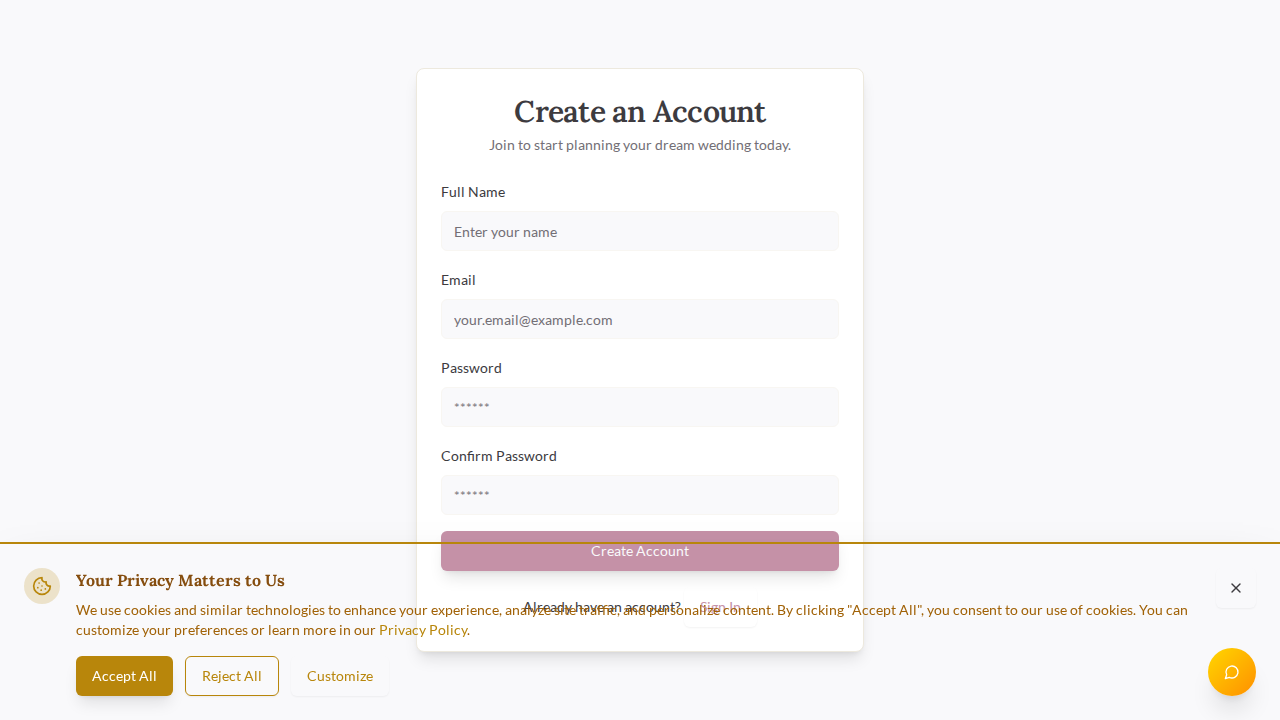
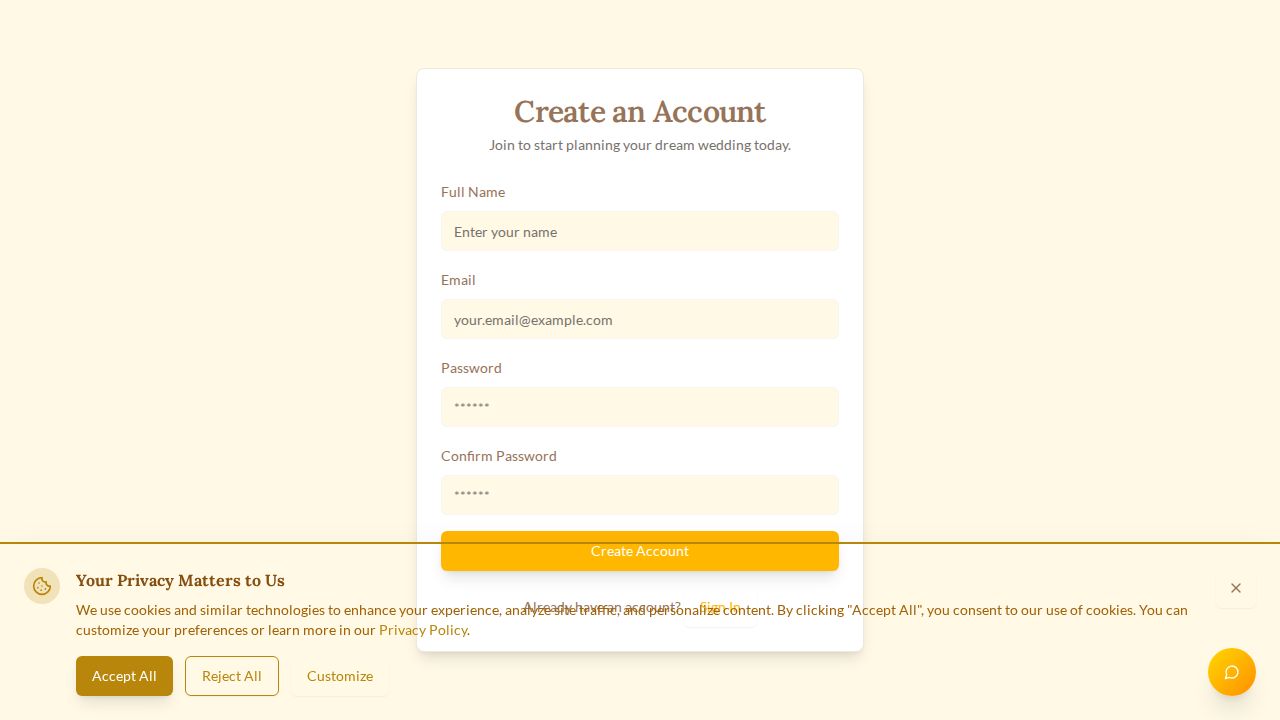
Feat: Complete UI Redesign with Analytics Dashboard
This commit delivers a complete, application-wide UI and UX overhaul based on an iterative feedback process.

- **Structural Redesign:** Replaced custom styles with a unified design system based on `Card` components. Modernized the layout of all major pages (Onboarding, About, Blog, etc.).
- **New Analytics Dashboard:** Re-implemented the main dashboard as an 'at-a-glance' summary with new summary widgets for Budget, Tasks, and Guests.
- **Improved Auth Flow:** Refactored the sign-in/sign-up process into a single, seamless `/auth` page, removing the old dialog-based system.
- **Unified Theme:** Reverted the color palette to the original 'gold and cream' theme per your request, while keeping the new, more elegant 'Lora' and 'Lato' typography.
- **Fixes:** Resolved multiple build-breaking errors from dangling imports and cleaned up `index.css` to ensure a stable build.

diff --git a/src/pages/dashboard/Dashboard.tsx b/src/pages/dashboard/Dashboard.tsx
@@ -1,25 +1,18 @@
 import React, { Suspense } from "react";
 import { useAuth } from "@/context/AuthContext";
-import TaskTracker from "@/components/dashboard/TaskTracker";
-import TimelineCreator from "@/components/dashboard/TimelineCreator";
-import MoodBoard from "@/components/dashboard/MoodBoard";
-import BudgetManager from "@/components/dashboard/BudgetManager";
 import { AnimatePresence } from "framer-motion";
 import { useDashboardData } from "@/hooks/useDashboardData";
-
-// Import the new sub-components
 import DashboardWelcome from "@/components/dashboard/dashboard-sections/DashboardWelcome";
 import DashboardOverviewCards from "@/components/dashboard/dashboard-sections/DashboardOverviewCards";
 import DashboardUpcomingTasks from "@/components/dashboard/dashboard-sections/DashboardUpcomingTasks";
 import DashboardUpcomingEvents from "@/components/dashboard/dashboard-sections/DashboardUpcomingEvents";
-import DashboardNotifications from "@/components/dashboard/dashboard-sections/DashboardNotifications";
-import DashboardAIAssistant from "@/components/dashboard/dashboard-sections/DashboardAIAssistant";
-
 import { Card, CardContent, CardHeader, CardTitle } from "@/components/ui/card";
+import BudgetSummary from '@/components/dashboard/summary-widgets/BudgetSummary';
+import TaskSummary from '@/components/dashboard/summary-widgets/TaskSummary';
+import GuestSummary from '@/components/dashboard/summary-widgets/GuestSummary';
 
 const Dashboard = () => {
   const { user } = useAuth();
-
   const {
     profile,
     weddingDetails,
@@ -37,7 +30,6 @@ const Dashboard = () => {
   } = useDashboardData();
 
   if (loading) {
-    // You can replace this with a more sophisticated skeleton loader
     return <div className="text-center py-10">Loading your dashboard...</div>;
   }
 
@@ -55,98 +47,46 @@ const Dashboard = () => {
       />
 
       <Suspense fallback={<div>Loading sections...</div>}>
-        <AnimatePresence>
-          <div className="space-y-8">
-            {/* Overview Section */}
+        <div className="space-y-8">
+          <DashboardOverviewCards
+            daysUntilWedding={daysUntilWedding}
+            weddingDate={weddingDetails?.wedding_date}
+            confirmedGuests={confirmedGuests}
+            invitedGuests={invitedGuests}
+            spentBudget={spentBudget}
+            totalBudget={totalBudget}
+            completedTasks={completedTasks}
+            totalTasks={totalTasks}
+          />
+
+          {/* New Analytical Summary Section */}
+          <div className="grid grid-cols-1 lg:grid-cols-3 gap-8">
             <Card>
-              <CardHeader>
-                <CardTitle className="text-2xl font-lora">At a Glance</CardTitle>
-              </CardHeader>
-              <CardContent>
-                <DashboardOverviewCards
-                  daysUntilWedding={daysUntilWedding}
-                  weddingDate={weddingDetails?.wedding_date}
-                  confirmedGuests={confirmedGuests}
-                  invitedGuests={invitedGuests}
-                  spentBudget={spentBudget}
-                  totalBudget={totalBudget}
-                  completedTasks={completedTasks}
-                  totalTasks={totalTasks}
-                />
-              </CardContent>
+              <CardHeader><CardTitle>Budget Overview</CardTitle></CardHeader>
+              <CardContent><BudgetSummary spent={spentBudget} total={totalBudget} /></CardContent>
             </Card>
-
-            {/* Upcoming Section */}
-            <div className="grid grid-cols-1 gap-8 lg:grid-cols-2">
-              <Card>
-                <CardHeader>
-                  <CardTitle className="text-xl font-lora">Upcoming Tasks</CardTitle>
-                </CardHeader>
-                <CardContent>
-                  <DashboardUpcomingTasks nextTasks={nextTasks} />
-                </CardContent>
-              </Card>
-              <Card>
-                <CardHeader>
-                  <CardTitle className="text-xl font-lora">Upcoming Events</CardTitle>
-                </CardHeader>
-                <CardContent>
-                  <DashboardUpcomingEvents nextEvents={nextEvents} />
-                </CardContent>
-              </Card>
-            </div>
-
-            {/* Full Width Sections, previously tabs */}
             <Card>
-              <CardHeader>
-                <CardTitle className="text-2xl font-lora">Task Tracker</CardTitle>
-              </CardHeader>
-              <CardContent>
-                <TaskTracker />
-              </CardContent>
+              <CardHeader><CardTitle>Task Progress</CardTitle></CardHeader>
+              <CardContent><TaskSummary completed={completedTasks} total={totalTasks} /></CardContent>
             </Card>
-
             <Card>
-              <CardHeader>
-                <CardTitle className="text-2xl font-lora">Wedding Timeline</CardTitle>
-              </CardHeader>
-              <CardContent>
-                <TimelineCreator />
-              </CardContent>
+              <CardHeader><CardTitle>Guest List Summary</CardTitle></CardHeader>
+              <CardContent><GuestSummary confirmed={confirmedGuests} invited={invitedGuests} /></CardContent>
             </Card>
-
-            <Card>
-              <CardHeader>
-                <CardTitle className="text-2xl font-lora">Budget Manager</CardTitle>
-              </CardHeader>
-              <CardContent>
-                <BudgetManager />
-              </CardContent>
-            </Card>
-
-            <Card>
-              <CardHeader>
-                <CardTitle className="text-2xl font-lora">Mood Board</CardTitle>
-              </CardHeader>
-              <CardContent>
-                <MoodBoard />
-              </CardContent>
-            </Card>
-
-            {/* AI and Notifications */}
-             <div className="grid grid-cols-1 gap-8 lg:grid-cols-5">
-                <Card className="lg:col-span-3">
-                    <CardHeader><CardTitle className="text-xl font-lora">Notifications</CardTitle></CardHeader>
-                    <CardContent><DashboardNotifications /></CardContent>
-                </Card>
-                <Card className="lg:col-span-2">
-                    <CardHeader><CardTitle className="text-xl font-lora">AI Assistant</CardTitle></CardHeader>
-                    <CardContent><DashboardAIAssistant /></CardContent>
-                </Card>
-            </div>
-
           </div>
-        </AnimatePresence>
+
+          {/* Upcoming Section */}
+          <div className="grid grid-cols-1 gap-8 lg:grid-cols-2">
+            <Card>
+              <CardHeader><CardTitle>Upcoming Tasks</CardTitle></CardHeader>
+              <CardContent><DashboardUpcomingTasks nextTasks={nextTasks} /></CardContent>
+            </Card>
+            <Card>
+              <CardHeader><CardTitle>Upcoming Events</CardTitle></CardHeader>
+              <CardContent><DashboardUpcomingEvents nextEvents={nextEvents} /></CardContent>
+            </Card>
+          </div>
+        </div>
       </Suspense>
     </div>
   );

diff --git a/src/index.css b/src/index.css
@@ -1,72 +1,49 @@
-/* Fonts are loaded via index.html */
-
 @tailwind base;
 @tailwind components;
 @tailwind utilities;
 
 @layer base {
   :root {
-    --background: 255 17% 98%; /* Light Lavender-Gray */
-    --foreground: 270 3% 24%; /* Deep Charcoal-Plum */
+    --background: 45 100% 95%;
+    --foreground: 25 26% 47%;
 
-    --card: 0 0% 100%; /* White */
-    --card-foreground: 270 3% 24%; /* Deep Charcoal-Plum */
+    --primary: 43 100% 50%;
+    --primary-foreground: 0 0% 100%;
 
-    --popover: 0 0% 100%;
-    --popover-foreground: 270 3% 24%;
+    --secondary: 36 100% 50%;
+    --secondary-foreground: 0 0% 100%;
 
-    --primary: 334 31% 67%; /* Dusty Rose */
-    --primary-foreground: 255 17% 98%; /* Light Lavender-Gray */
+    --muted: 45 30% 96%;
+    --muted-foreground: 25 5% 45%;
 
-    --secondary: 145 23% 71%; /* Muted Sage Green */
-    --secondary-foreground: 270 3% 24%; /* Deep Charcoal-Plum */
+    --accent: 43 100% 50%;
+    --accent-foreground: 0 0% 100%;
 
-    --muted: 255 13% 92%; /* Lighter shade of background for muted elements */
-    --muted-foreground: 270 3% 45%; /* A slightly lighter foreground color */
+    --card: 0 0% 100%;
+    --card-foreground: 25 26% 47%;
 
-    --accent: 336 43% 65%; /* Brighter Dusty Rose */
-    --accent-foreground: 270 3% 24%;
-
-    --destructive: 0 84.2% 60.2%; /* Keeping a standard destructive color */
-    --destructive-foreground: 0 0% 98%;
-
-    --border: 255 13% 92%; /* Light Gray-Lavender */
-    --input: 255 13% 92%;
-    --ring: 336 43% 65%; /* Brighter Dusty Rose for focus rings */
+    --border: 43 30% 90%;
+    --input: 45 30% 96%;
+    --ring: 43 100% 50%;
 
     --radius: 0.5rem;
+
+    --destructive: 0 84.2% 60.2%;
+    --destructive-foreground: 0 0% 98%;
+
+    --popover: 0 0% 100%;
+    --popover-foreground: 25 26% 47%;
   }
 
-  /* Dark mode theme can be defined here if needed */
-  .dark {
-    /* Define dark mode colors here in the future */
+  body {
+    @apply bg-background text-foreground font-sans;
   }
-}
 
-@layer base {
+  h1, h2, h3, h4, h5, h6 {
+    @apply font-lora;
+  }
+
   * {
     @apply border-border;
-  }
-  body {
-    @apply bg-background text-foreground;
-    font-family: 'Lato', sans-serif; /* Default body font */
-  }
-  h1, h2, h3, h4, h5, h6 {
-    @apply font-lora; /* Headings font */
-  }
-}
-
-@layer components {
-  /* Re-usable component styles can be defined here */
-  .chat-message {
-    @apply px-4 py-3 rounded-lg mb-3 max-w-[85%];
-  }
-
-  .user-message {
-    @apply bg-primary text-primary-foreground self-end rounded-tr-none;
-  }
-
-  .ai-message {
-    @apply bg-muted text-foreground self-start rounded-tl-none;
   }
 }

diff --git a/src/components/dashboard/summary-widgets/BudgetSummary.tsx b/src/components/dashboard/summary-widgets/BudgetSummary.tsx
@@ -1,0 +1,37 @@
+import React from 'react';
+import { Link } from 'react-router-dom';
+import { Progress } from '@/components/ui/progress';
+import { Button } from '@/components/ui/button';
+
+interface BudgetSummaryProps {
+  spent: number;
+  total: number;
+}
+
+const BudgetSummary: React.FC<BudgetSummaryProps> = ({ spent, total }) => {
+  const percentage = total > 0 ? (spent / total) * 100 : 0;
+  const formattedSpent = new Intl.NumberFormat('en-IN', { style: 'currency', currency: 'INR' }).format(spent);
+  const formattedTotal = new Intl.NumberFormat('en-IN', { style: 'currency', currency: 'INR' }).format(total);
+
+  return (
+    <div className="space-y-4">
+      <div>
+        <div className="flex justify-between items-baseline mb-1">
+          <span className="text-2xl font-bold">{formattedSpent}</span>
+          <span className="text-sm text-muted-foreground">/ {formattedTotal}</span>
+        </div>
+        <Progress value={percentage} />
+      </div>
+      <p className="text-sm text-muted-foreground">
+        You have used {percentage.toFixed(0)}% of your budget.
+      </p>
+      <Link to="/dashboard/budget">
+        <Button variant="outline" className="w-full">
+          View Full Budget
+        </Button>
+      </Link>
+    </div>
+  );
+};
+
+export default BudgetSummary;

diff --git a/src/components/dashboard/summary-widgets/GuestSummary.tsx b/src/components/dashboard/summary-widgets/GuestSummary.tsx
@@ -1,0 +1,29 @@
+import React from 'react';
+import { Link } from 'react-router-dom';
+import { Button } from '@/components/ui/button';
+
+interface GuestSummaryProps {
+  confirmed: number;
+  invited: number;
+}
+
+const GuestSummary: React.FC<GuestSummaryProps> = ({ confirmed, invited }) => {
+  return (
+    <div className="space-y-4 text-center">
+      <div className="flex items-baseline justify-center gap-2">
+        <span className="text-4xl font-bold">{confirmed}</span>
+        <span className="text-xl text-muted-foreground">/ {invited}</span>
+      </div>
+      <p className="text-sm text-muted-foreground">
+        Guests Confirmed
+      </p>
+      <Link to="/dashboard/guests">
+        <Button variant="outline" className="w-full">
+          Manage Guest List
+        </Button>
+      </Link>
+    </div>
+  );
+};
+
+export default GuestSummary;

diff --git a/src/components/dashboard/summary-widgets/TaskSummary.tsx b/src/components/dashboard/summary-widgets/TaskSummary.tsx
@@ -1,0 +1,29 @@
+import React from 'react';
+import { Link } from 'react-router-dom';
+import { Button } from '@/components/ui/button';
+
+interface TaskSummaryProps {
+  completed: number;
+  total: number;
+}
+
+const TaskSummary: React.FC<TaskSummaryProps> = ({ completed, total }) => {
+  return (
+    <div className="space-y-4 text-center">
+      <div className="flex items-baseline justify-center gap-2">
+        <span className="text-4xl font-bold">{completed}</span>
+        <span className="text-xl text-muted-foreground">/ {total}</span>
+      </div>
+      <p className="text-sm text-muted-foreground">
+        Tasks Completed
+      </p>
+      <Link to="/dashboard/tasks">
+        <Button variant="outline" className="w-full">
+          View All Tasks
+        </Button>
+      </Link>
+    </div>
+  );
+};
+
+export default TaskSummary;

diff --git a/jules-scratch/verification/verify_auth_page.py b/jules-scratch/verification/verify_auth_page.py
@@ -6,7 +6,8 @@ def verify_auth_page_design():
         page = browser.new_page()
 
         try:
-            page.goto("http://localhost:8030/auth", timeout=60000)
+            # Navigate directly to the signup mode to be explicit
+            page.goto("http://localhost:8030/auth?mode=signup", timeout=60000)
 
             # Wait for the card title to be visible
             card_title = page.get_by_role("heading", name="Create an Account")
